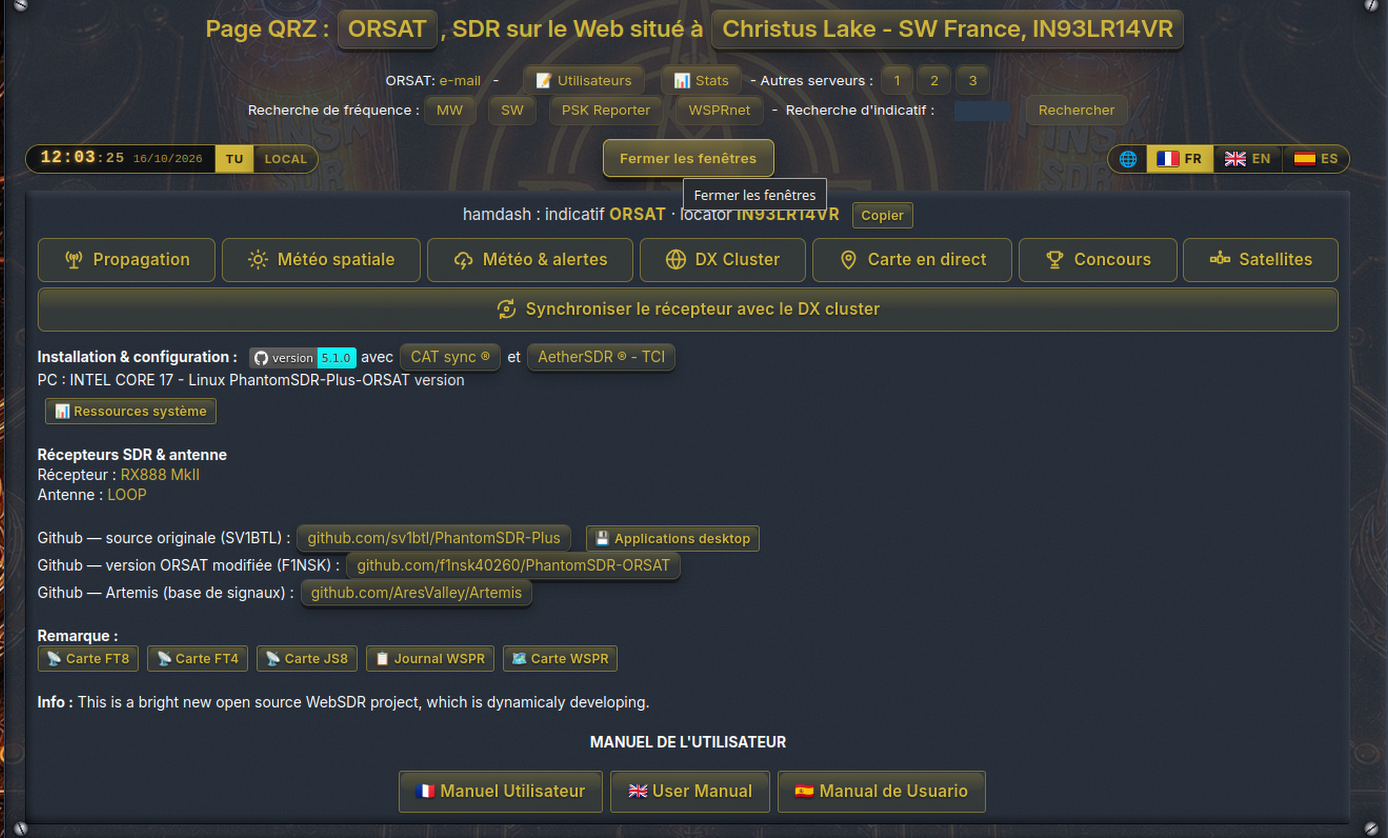
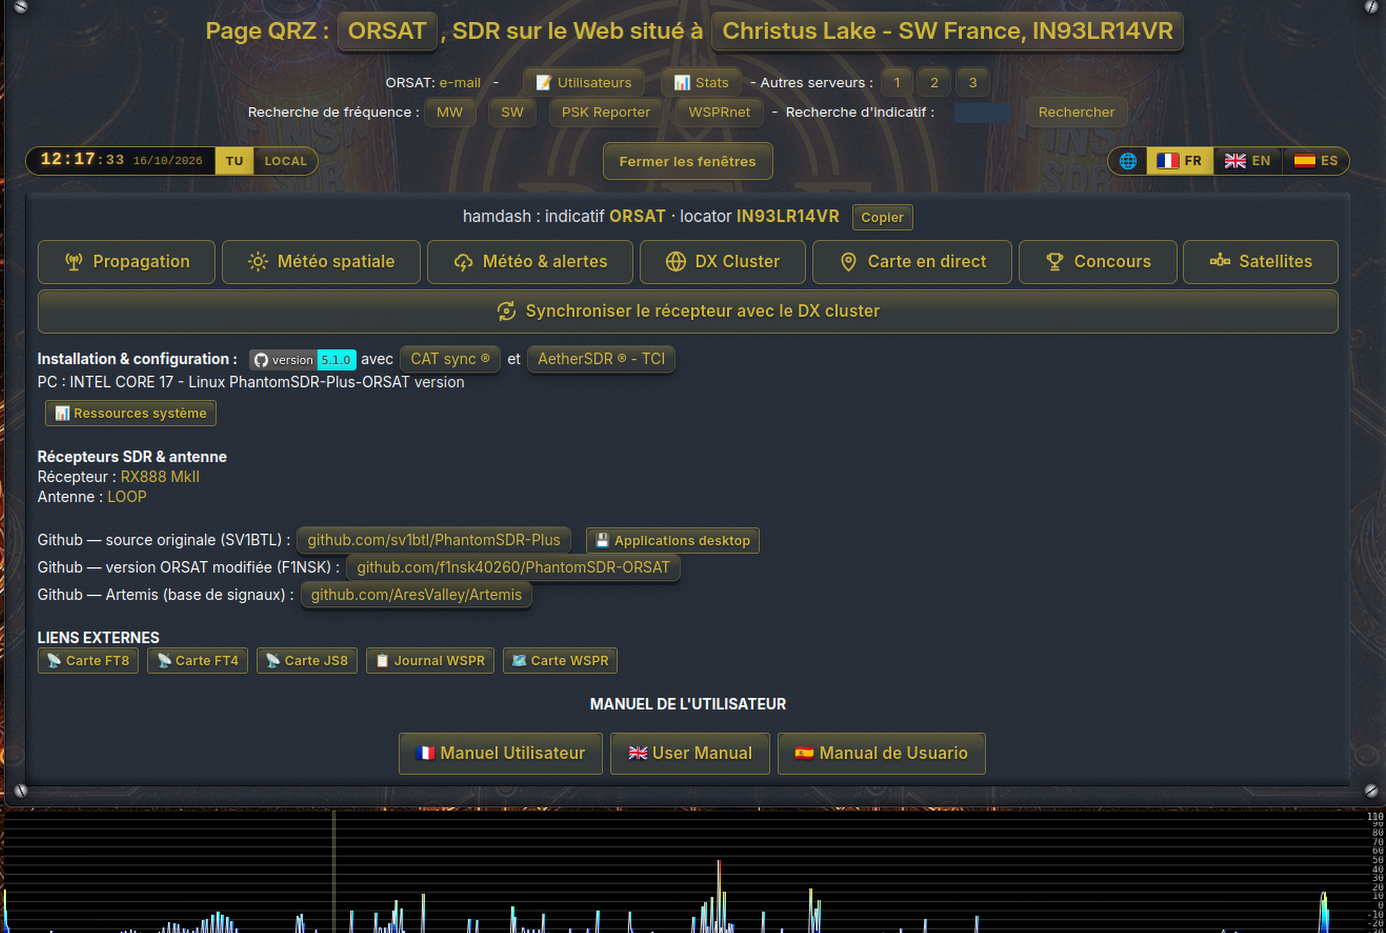
README : capture du panneau hamdash mise à jour
Claude-Session: https://claude.ai/code/session_0168Kvshbv3AVMe5tf1fCM8t

diff --git a/README.md b/README.md
@@ -155,7 +155,7 @@ Le WebSDR ORSAT de F1NSK : **[https://orsat.ddns.net](https://orsat.ddns.net)**
 
 ![Panneau hamdash, liens et manuels](docs/websdr3.png)
 
-*Panneau hamdash : propagation, DX cluster, liens GitHub et manuels utilisateur en trois langues.*
+*Panneau hamdash : propagation, DX cluster, liens GitHub, liens externes et manuels utilisateur en trois langues.*
 
 (https://sdr-list.xyz)
 
